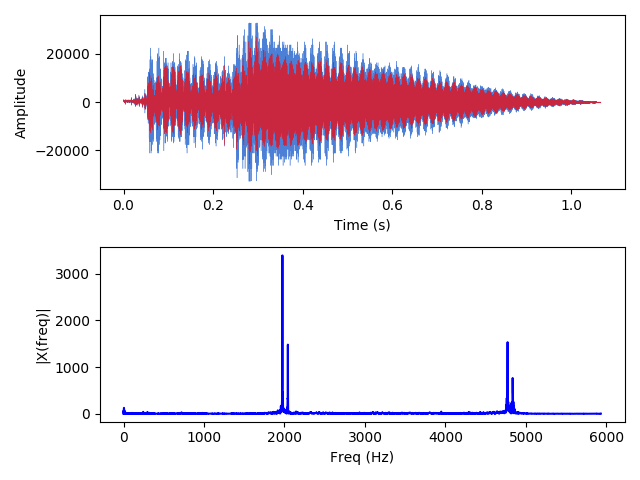
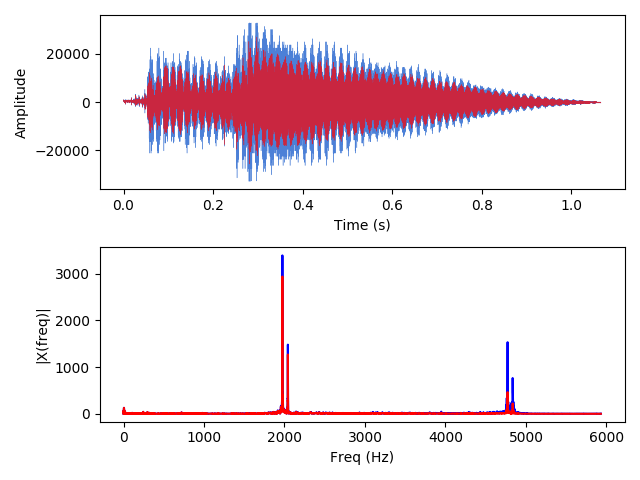
Add more plotters!

Changed region(s): [[0.1875, 0.5938, 0.9375, 0.875]]

diff --git a/music.py b/music.py
@@ -28,22 +28,31 @@ def sine(frequency, sampling_rate, num_samples):
 def generate_wav(fname, sample_rate, data):
 
     wavfile.write(fname, sample_rate, data)
-def plot_frequency(array, sample_rate):
+def plot_frequency(array, new_array, sample_rate):
     
     frq, X = frequency_spectrum(array, sample_rate)
-
-    x_axis = np.arange(0,5000,1)
+    _, X2 = frequency_spectrum(new_array, sample_rate)
 
     plt.subplot(2, 1, 2)
     plt.plot(X, 'b')
+    plt.plot(X2, 'r')
     plt.xlabel('Freq (Hz)')
     plt.ylabel('|X(freq)|')
     plt.tight_layout()
 
     # plt.show()
 
-def plot_time():
-    pass
+def plot_time(data, new_data, sample_rate, amount_of_samples):
+ 
+    plt.subplot(2, 1, 1)
+    time_array = np.arange(0, float(amount_of_samples), 1) / sample_rate
+    plt.plot( time_array, data, linewidth=0.3, alpha=0.7, color='#004bc6')
+    plt.plot( time_array, new_data, linewidth=0.3, alpha=0.7, color='red')
+
+    plt.xlabel('Time (s)')
+
+    plt.ylabel('Amplitude')
+
 
 def show():
 
@@ -59,18 +68,8 @@ def show():
     new_data = simple_filter(data)
    
     # “return evenly spaced values within a given interval”
-
-    time_array = np.arange(0, float(amount_of_samples), 1) / sample_rate
-
-    plt.subplot(2, 1, 1)
-    plt.plot(time_array, data, linewidth=0.3, alpha=0.7, color='#004bc6')
-    plt.plot(time_array, new_data, linewidth=0.3, alpha=0.7, color='red')
-
-    plt.xlabel('Time (s)')
-
-    plt.ylabel('Amplitude')
-
-    plot_frequency(data, sample_rate)
+    plot_time(data, new_data, sample_rate, amount_of_samples)
+    plot_frequency(data, new_data, sample_rate)
 
     wavfile.write('new_' + f, sample_rate, new_data)
     plt.savefig("plot.png")
